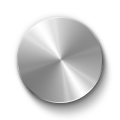
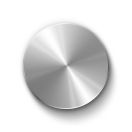
Knob: backgrounds fullsize for using background-size:contain

Changed region(s): [[0.125, 0.125, 0.925, 0.975]]

diff --git a/javascript/examples.js b/javascript/examples.js
@@ -331,19 +331,12 @@ run_value = function (root) {
 function run_knob (root) {
     knob1 = new Knob({
         "class": "knob1",
-        margin: 3.5,
-        thickness: 7,
         min: -96,
         max: 24,
         value: -20,
-        dot: {length: 3, margin: 2, width: 1},
-        marker: {thickness: 3, margin: 5.5},
         markers: [
             {from: 0, to: 24}
         ],
-        
-        hand: {width: 1, length: 12, margin: 21.5},
-        styles: {backgroundSize: "100%"}
     });
     knob = new Knob({
         "class": "knob",
@@ -382,7 +375,7 @@ function run_knob (root) {
             {pos: 10000, label: "10k"}, {pos: 20000, label:"20k"}
         ],
         hand: {width: 3, length: 3, margin: 24},
-        styles: {backgroundSize: "70%", backgroundImage: "url(images/knob2.png)"}
+        styles: {backgroundImage: "url(images/knob2.png)"}
     });
     root.append_children([ knob, knob1, knob2 ]);
 }

diff --git a/toolkit/widgets/knob.js b/toolkit/widgets/knob.js
@@ -53,14 +53,14 @@ w.TK.Knob = w.Knob = $class({
     }),
     options: Object.assign({}, TK.Circular.prototype.options, {
         size: 100,
-        hand: {width: 2, length: 6, margin: 22},
+        hand: {width: 1, length: 12, margin: 24},
         margin: 13,
-        thickness: 5,
+        thickness: 6,
         step: 1,
         shift_up: 4,
         shift_down: 0.25,
-        dot: {margin: 13, length: 5, width: 2},
-        marker: {margin: 13, thickness: 5},
+        dot: {length: 6, margin: 13, width: 2},
+        marker: {thickness: 6, margin: 13},
         label: {margin: 10, align: _TOOLKIT_OUTER, format: function(val){return val;}},
         direction: _TOOLKIT_POLAR,
         rotation:       45,

diff --git a/toolkit/styles/css/knob.css b/toolkit/styles/css/knob.css
@@ -1,6 +1,6 @@
 .toolkit-knob {
     background: url(../images/knob/background.png) no-repeat 50% 50%;
-    background-size: 80% 80%;
+    background-size: contain;
     cursor: pointer;
     width: 100px;
     height: 100px;
